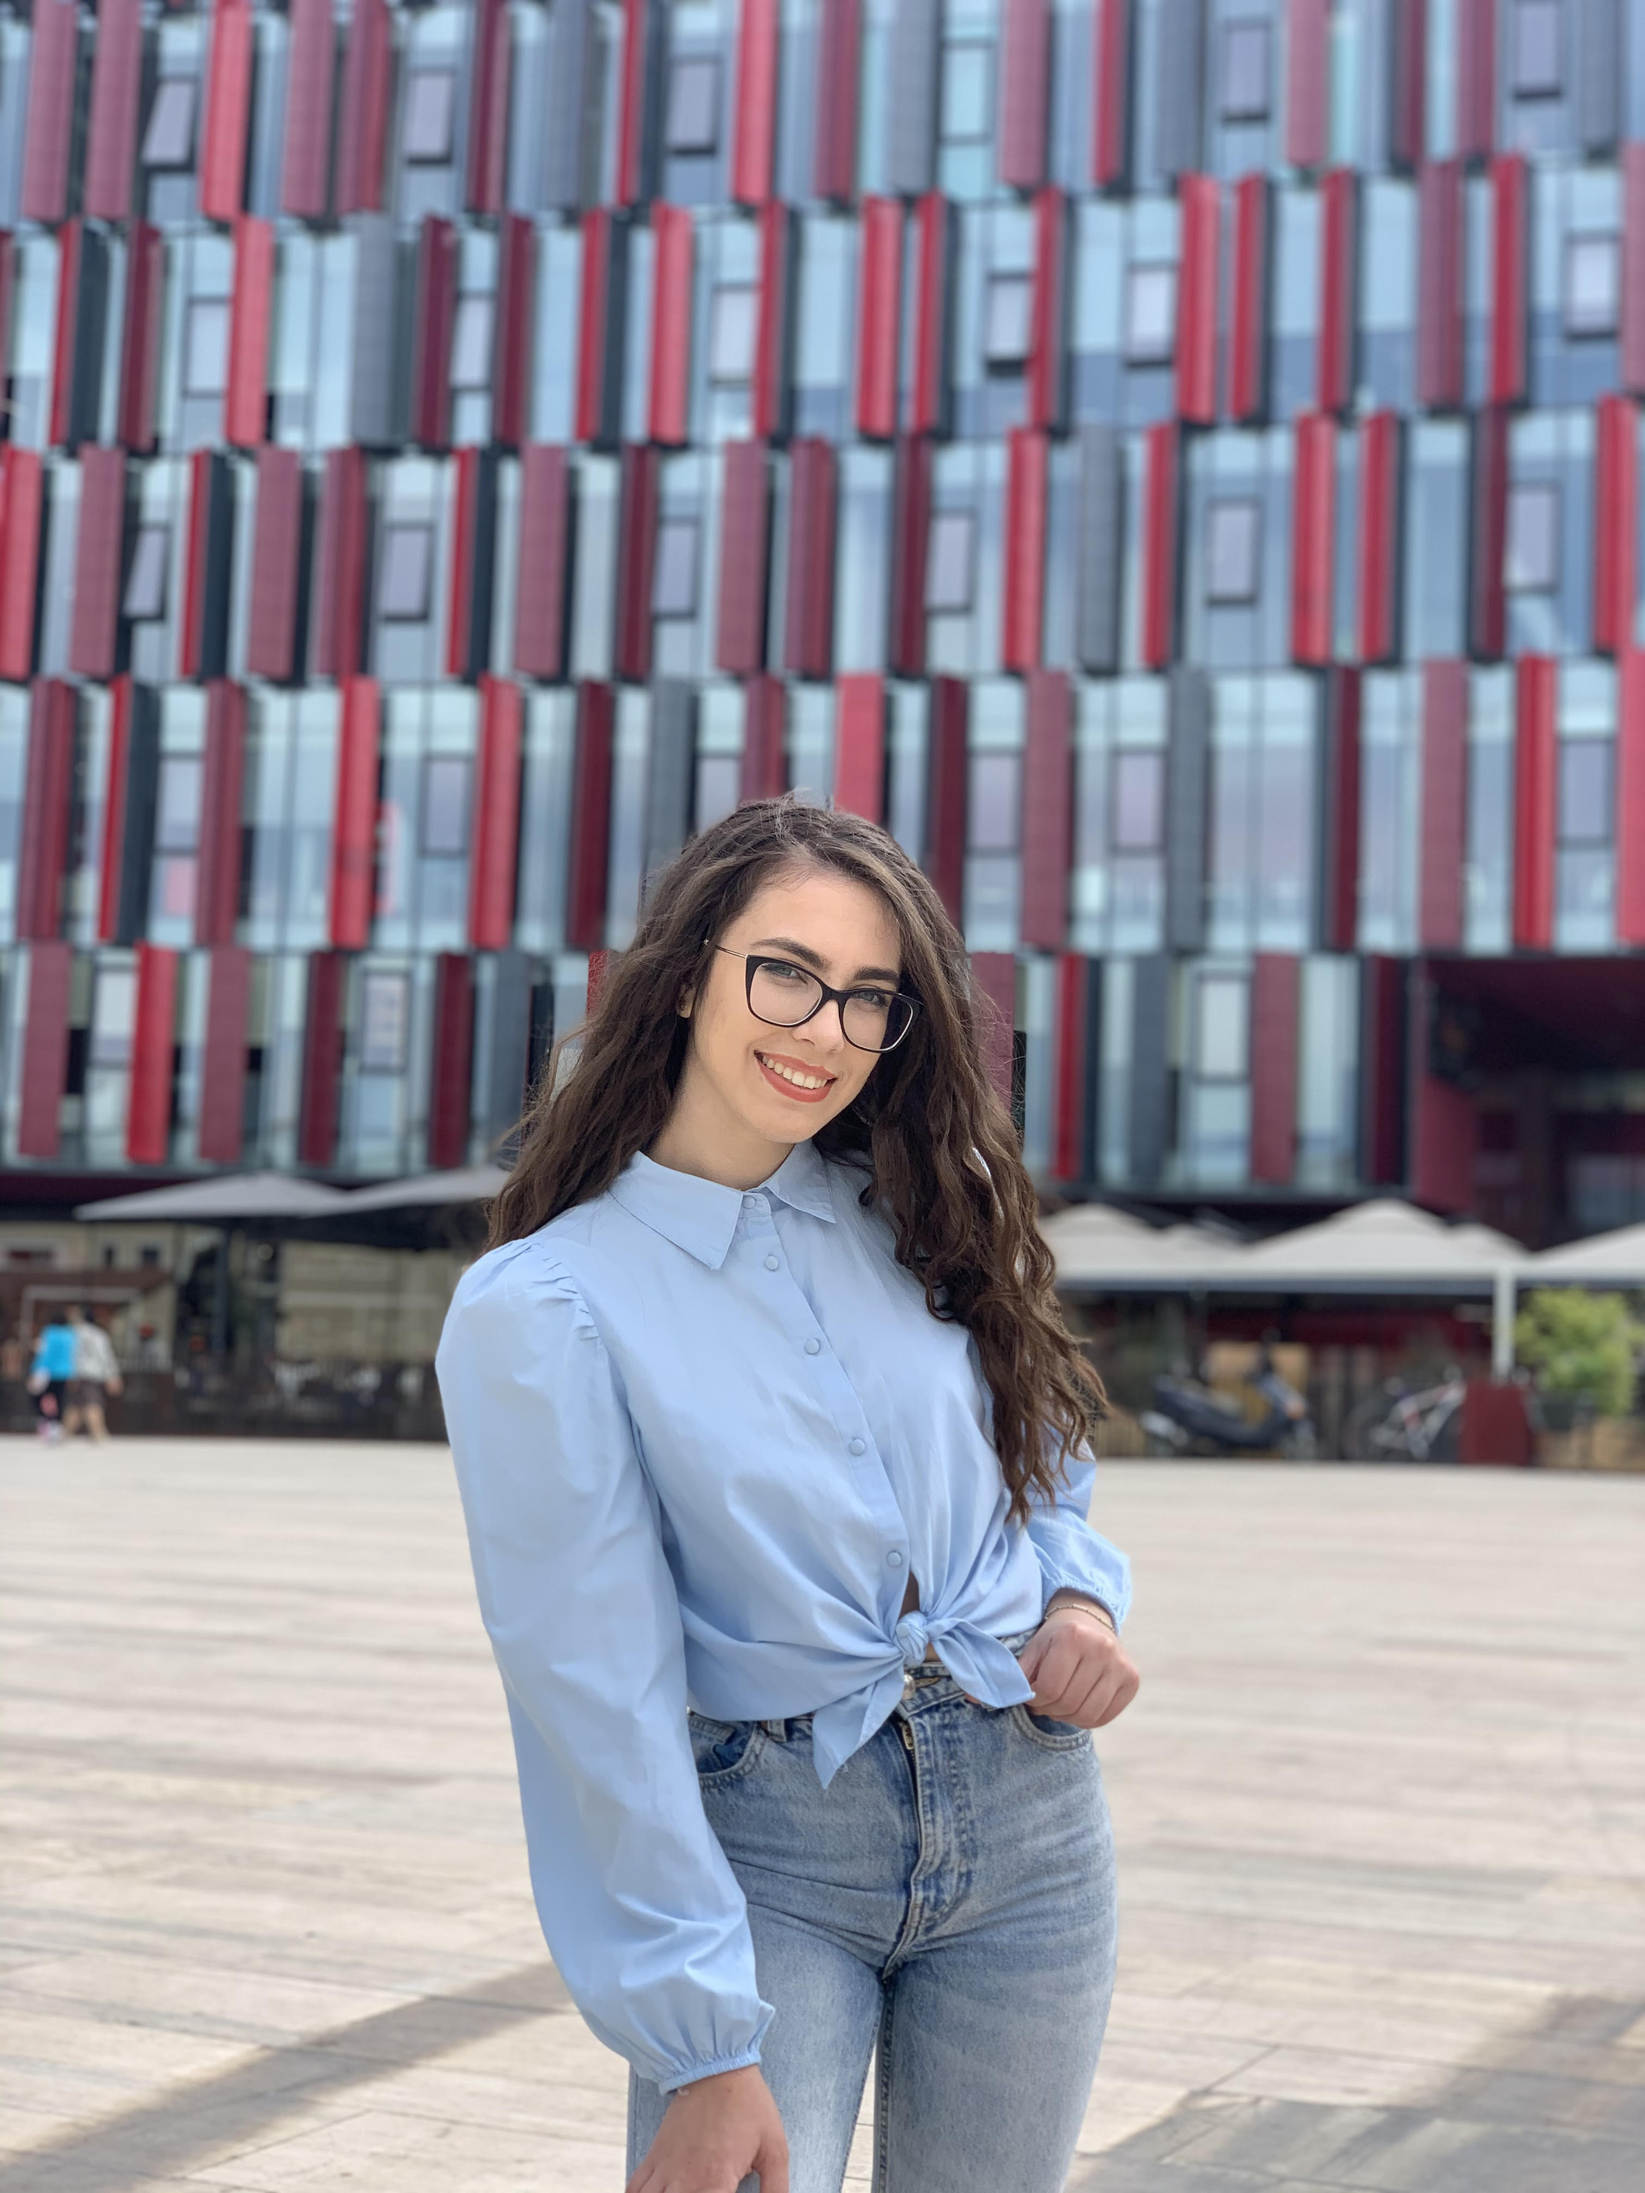
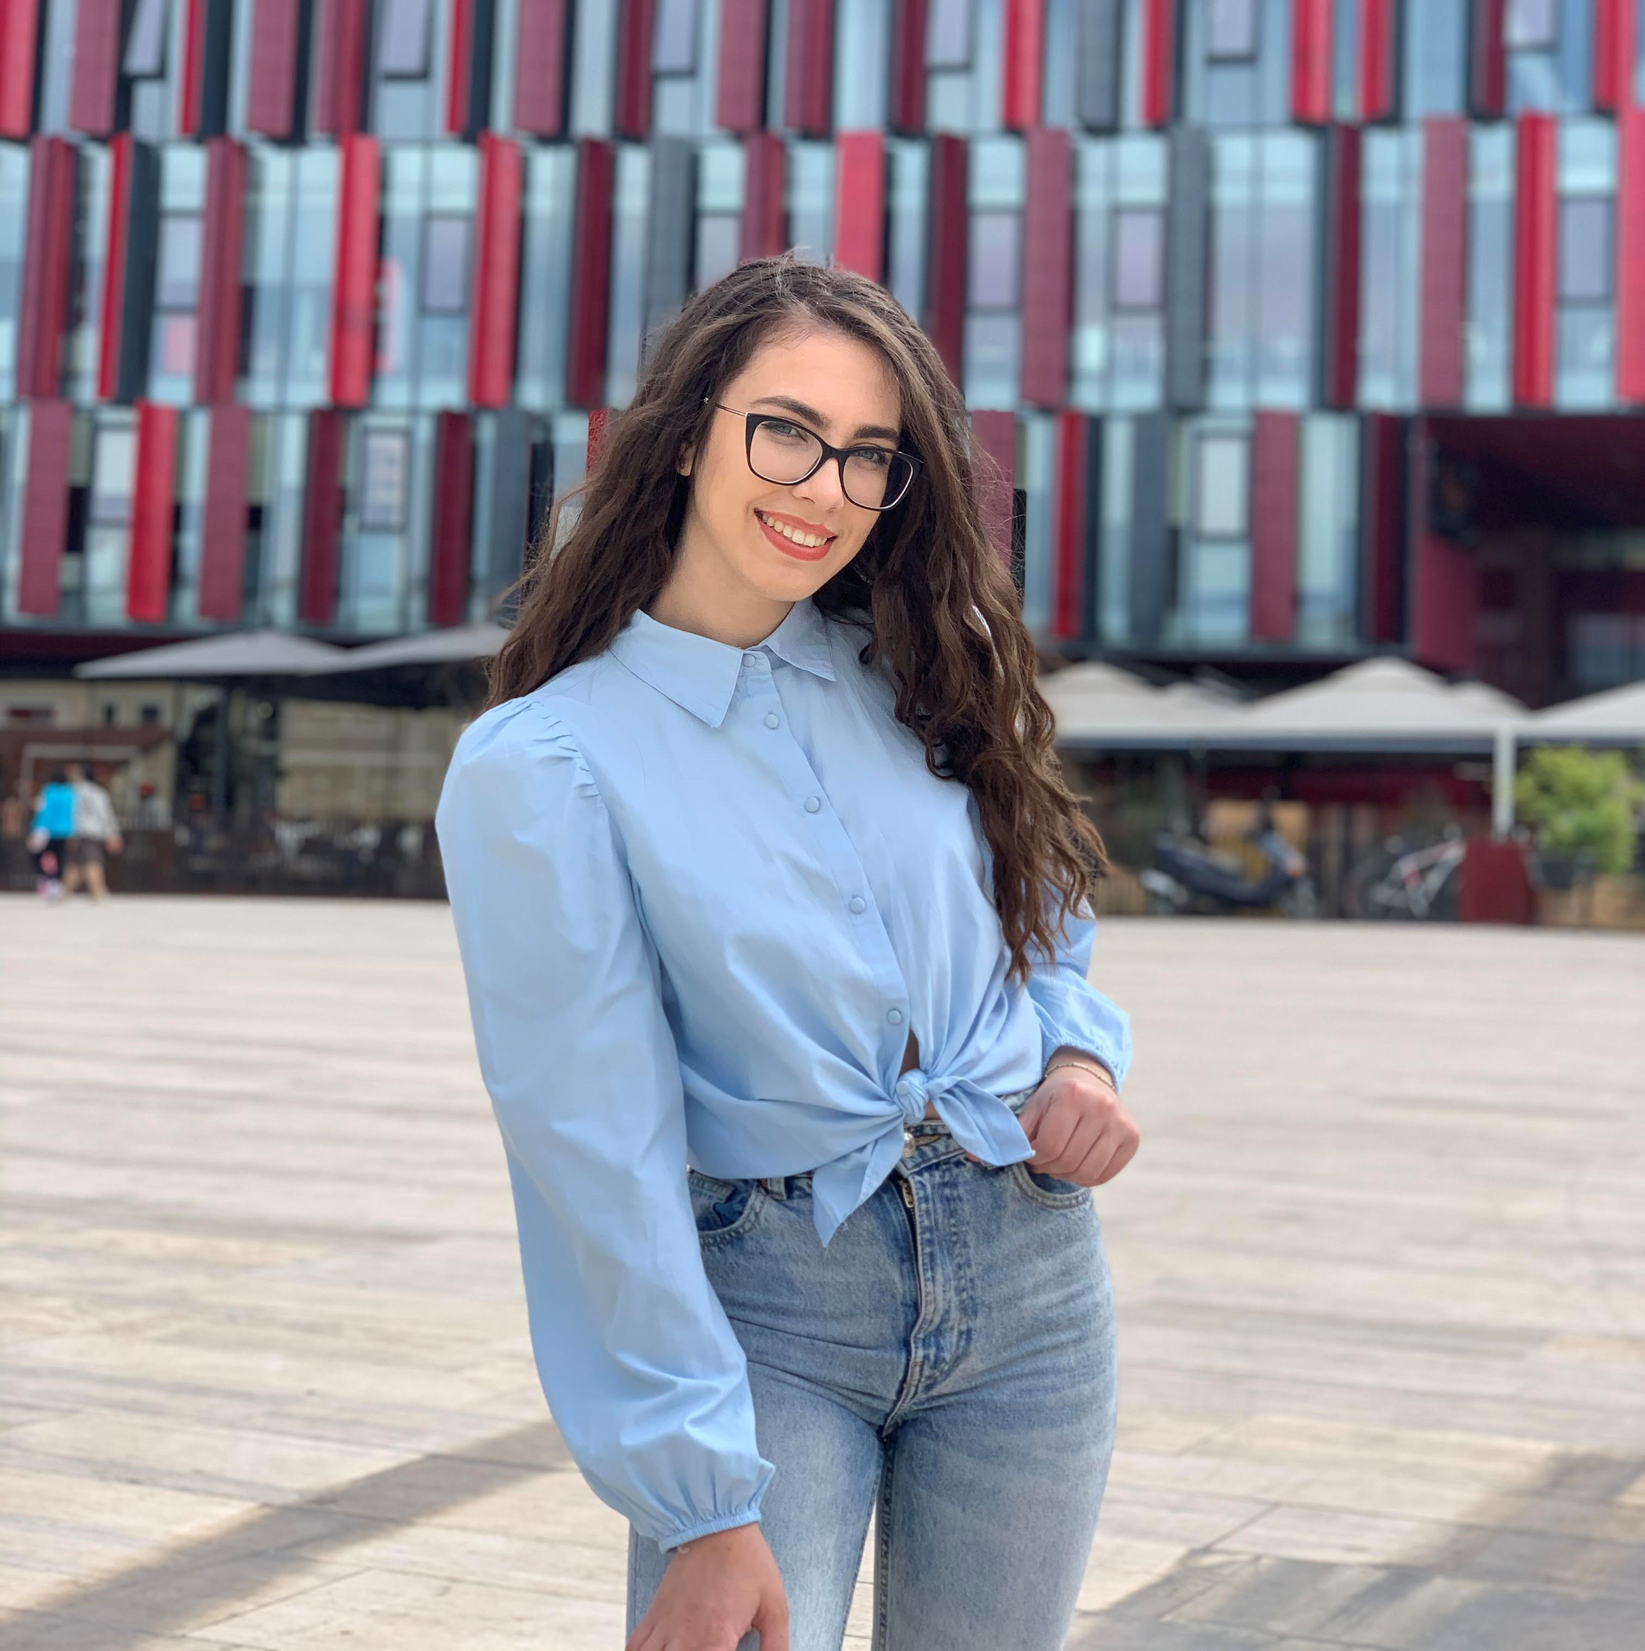
header update

diff --git a/src/components/header/header.css b/src/components/header/header.css
@@ -40,15 +40,14 @@ header {
 
 .me__image {
     background: linear-gradient(var(--color-primary), transparent);
-    width: 22rem;
+    width: 22rem; 
     height: 30rem;
     position: absolute;
     left: 50%;
-    transform: translateX(-50%); 
-    margin-top: 4rem;
-    border-radius: 12rem 12rem 0 0;
-    overflow: hidden;
-     padding: 5rem 1.5rem 1.5rem 1.5rem;    
+    transform: translateX(-50%);
+    margin-top: 2rem;
+    border-radius: 10px;
+    
 }
 
 /******************************** Scroll Down ********************************/
